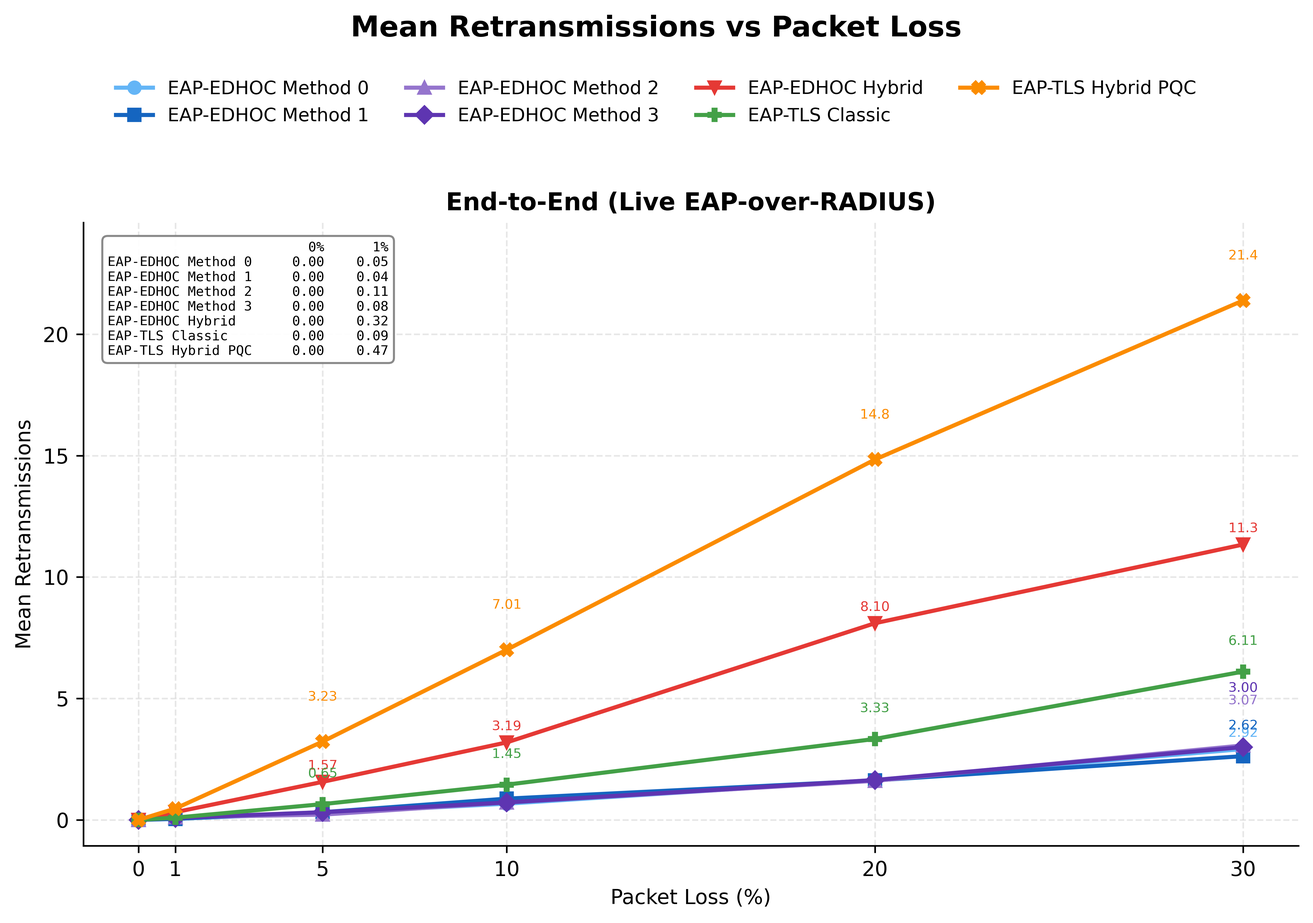
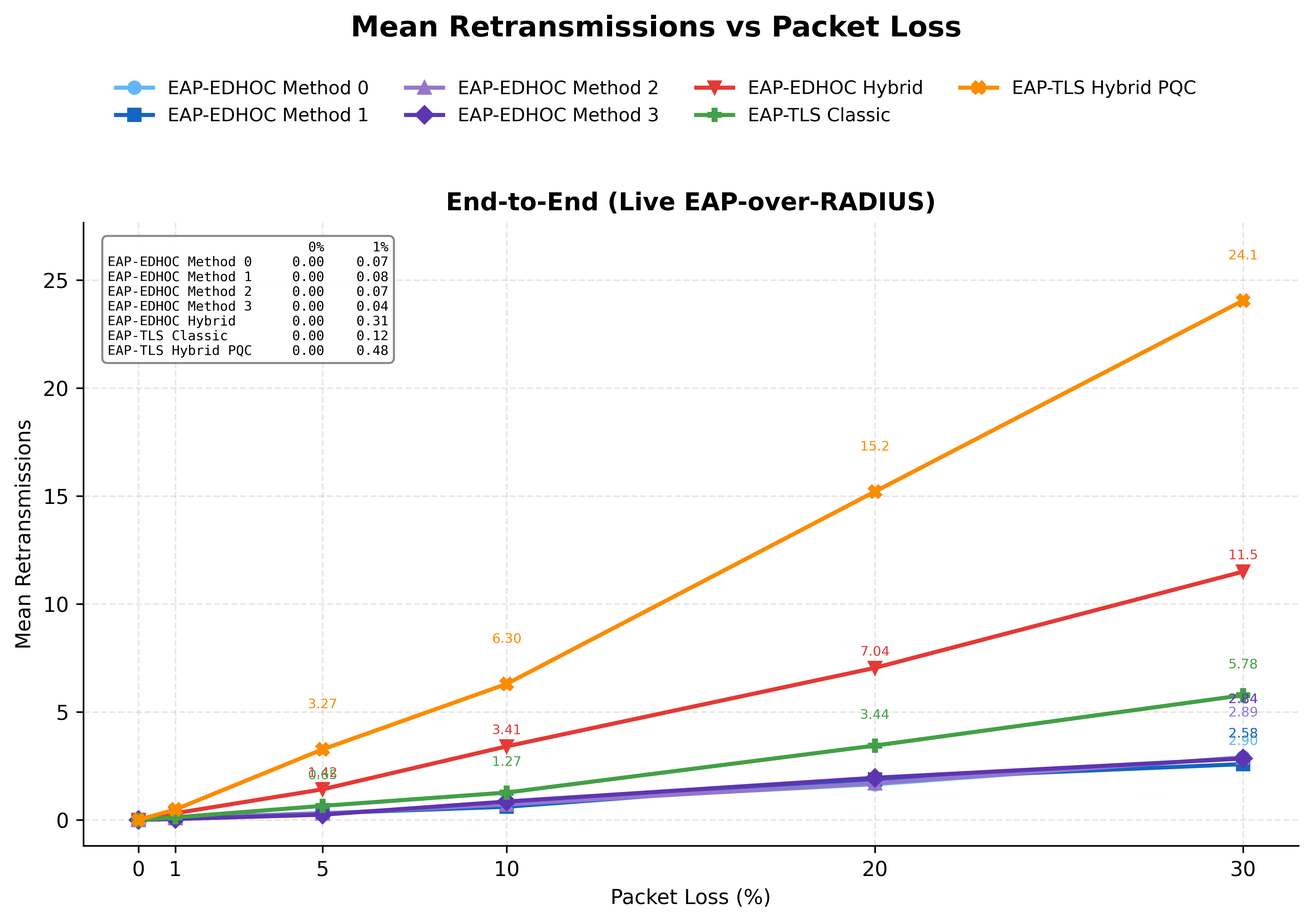
paper/notebook: storage-optimised results
Two-slot records: the proposal now takes 5.570 ms (median 5.704) and is
faster than EAP-TLS Hybrid PQC (9.319 ms) at every RTT and loss level;
durable storage costs one fdatasync per handshake on the DN-AAA, about
0.1 ms against tmpfs (was 7.9 ms). New design sentence in the protocol
section, recomputed RTT table, loss figures and Wilson/model check from
the new run, grace-key re-test (2 uses in 150 handshakes at 20% loss).
EDHOC_HANDSHAKE_MEAN_MS in the notebook was stuck at 14.733 since step 3
and is now refreshed (figure D).

diff --git a/symmetry-rev/paper/manuscript.tex b/symmetry-rev/paper/manuscript.tex
@@ -91,7 +91,7 @@ $^{4}$ \quad Department of Electrical Engineering, Udayana University, Badung, B
 \corres{Correspondence: isyou@kookmin.ac.kr}
 
 % Abstract (single paragraph, about 200 words, no blank lines)
-\abstract{5G secondary authentication lets an external data network (DN) authenticate user equipment (UE) through the Extensible Authentication Protocol (EAP), but existing methods such as EAP-TLS are heavyweight and rely on elliptic-curve cryptography that a quantum adversary can break. Moving to post-quantum key encapsulation also breaks the role symmetry of authenticated key exchange, because a key encapsulation mechanism (KEM) implicitly authenticates only the decapsulating party. We propose a role-symmetric hybrid post-quantum EAP-EDHOC (Ephemeral Diffie--Hellman Over COSE) protocol that restores this symmetry: the UE and the DN authentication server each receive exactly one X-Wing (X25519 + ML-KEM-768) encapsulation to a one-time static key, each authenticate with a detached ML-DSA-44 signature, and each rotate and erase their key after every run. The mirrored rotation gives both parties forward secrecy and post-compromise security, and the independent signatures give Key-Compromise Impersonation (KCI) resistance in both directions. The exported Extended Master Session Key bootstraps application-layer keys for login-free server access. We model nine security requirements in ProVerif for seven methods, including a negative control without key erasure. An implementation on Open5GS, UERANSIM, and FreeRADIUS shows that the symmetry extends to the traffic: of the $12{,}228$-byte handshake, the UE sends $6{,}116$ bytes and the server $6{,}112$ bytes. The cost, in contrast, is asymmetric and lies in transport fragmentation and durable key storage rather than in cryptography.}
+\abstract{5G secondary authentication lets an external data network (DN) authenticate user equipment (UE) through the Extensible Authentication Protocol (EAP), but existing methods such as EAP-TLS are heavyweight and rely on elliptic-curve cryptography that a quantum adversary can break. Moving to post-quantum key encapsulation also breaks the role symmetry of authenticated key exchange, because a key encapsulation mechanism (KEM) implicitly authenticates only the decapsulating party. We propose a role-symmetric hybrid post-quantum EAP-EDHOC (Ephemeral Diffie--Hellman Over COSE) protocol that restores this symmetry: the UE and the DN authentication server each receive exactly one X-Wing (X25519 + ML-KEM-768) encapsulation to a one-time static key, each authenticate with a detached ML-DSA-44 signature, and each rotate and erase their key after every run. The mirrored rotation gives both parties forward secrecy and post-compromise security, and the independent signatures give Key-Compromise Impersonation (KCI) resistance in both directions. The exported Extended Master Session Key bootstraps application-layer keys for login-free server access. We model nine security requirements in ProVerif for seven methods, including a negative control without key erasure. An implementation on Open5GS, UERANSIM, and FreeRADIUS shows that the symmetry extends to the traffic: of the $12{,}228$-byte handshake, the UE sends $6{,}116$ bytes and the server $6{,}112$ bytes. The cost, in contrast, is asymmetric and lies in transport fragmentation rather than in cryptography.}
 
 % Keywords
 \keyword{symmetric mutual authentication; asymmetric cryptography; hybrid post-quantum cryptography; EDHOC; 5G secondary authentication; X-Wing KEM; ML-DSA; formal verification}
@@ -198,7 +198,7 @@ X-Wing is IND-CCA secure under standard assumptions and, by exploiting ML-KEM's 
 \subsection{Assumptions and Design Rationale}
 In a provisioning phase (Algorithm~\ref{alg:longterm-keygen}), the UE (Initiator) and the DN-AAA (Responder) each generate a long-term X-Wing key pair and a long-term ML-DSA-44 signing key, and each holds the peer's long-term X-Wing public key. The peer's verification key ($VK_R$, $VK_I$) is conveyed in \texttt{Plaintext2}/\texttt{Plaintext3} and bound to the transcript by the corresponding signature. EAP-EDHOC messages are carried over EAP~\cite{RFC3748} and RADIUS~\cite{RFC2865,RFC3579} between the pass-through authenticator (SMF/UPF) and the DN-AAA, following TS~33.501~\cite{TS33501}. The Dolev--Yao adversary~\cite{DolevYao1983} controls the network.
 
-The X-Wing static keys are \emph{one-time} keys. Each party generates its next key pair during a run, announces the public key in $\mathit{EAD}_3$ or $\mathit{EAD}_4$, and erases the old secret key once the run completes, so every static key pair serves exactly one session. The DN-AAA therefore keeps one record per UE, holding $(sk_{\mathsf{B}}, pk_{\mathsf{B}})$ for that UE together with $(pk_{\mathsf{A}}, VK_I)$. The DN-AAA selects this record from the EAP identity of the session, which reaches it in the RADIUS Access-Request before \texttt{Message1}, so no extra field is added to the EDHOC messages.
+The X-Wing static keys are \emph{one-time} keys. Each party generates its next key pair during a run, announces the public key in $\mathit{EAD}_3$ or $\mathit{EAD}_4$, and erases the old secret key once the run completes, so every static key pair serves exactly one session. The DN-AAA therefore keeps one record per UE, holding $(sk_{\mathsf{B}}, pk_{\mathsf{B}})$ for that UE together with $(pk_{\mathsf{A}}, VK_I)$. The DN-AAA selects this record from the EAP identity of the session, which reaches it in the RADIUS Access-Request before \texttt{Message1}, so no extra field is added to the EDHOC messages. Each party keeps its record in a preallocated two-slot file; a commit writes the inactive slot and issues a single \texttt{fdatasync}, so the previous slot serves as the grace key and is overwritten by the next commit. The DN-AAA commits before it sends \texttt{Message4} (write-ahead), so a crash cannot leave it behind the UE; the UE commits after EAP-Success and then zeroes its previous slot, since it needs the new key only from the next session on.
 
 The protocol follows the SIGMA (SIGn-and-MAc) design~\cite{Kra03}: X-Wing provides confidentiality and key agreement, while detached ML-DSA-44 signatures~\cite{FIPS204} are the sole source of entity authentication. Because the signing keys are independent of the X-Wing static keys, leaking a KEM static key does not enable impersonation; this closes the KCI gap of a MAC-only Method~4 variant~\cite{GM23,CDM24}. We choose ML-DSA-44 (NIST category~2) rather than ML-DSA-65 to limit fragmentation: its $1312$-byte key and $2420$-byte signature are markedly smaller, and its margin still exceeds that of the Ed25519 signatures of T0--T3. Being nominally below the category-3 strength of ML-KEM-768, this is a deliberate size/security trade-off.
 
@@ -549,7 +549,7 @@ Verify\_MLDSA44     & 0.059596 & 0.028310 & 0.001013 \\
 \centering
 \includegraphics[width=\linewidth]{img_handshake_computation_grouped.png}
 \end{adjustwidth}
-\caption{Per-method handshake computation cost (\textbf{left}) and end-to-end handshake time (\textbf{right}). In the right panel, ``Initiator'' is the UE's local processing (including storing its rotated key for the proposal) and ``Responder'' is the time the UE waits for replies, which includes the RADIUS round-trips, the DN-AAA's processing, and its key storage.\label{fig:handshake_computation_grouped}}
+\caption{Per-method handshake computation cost (\textbf{left}) and end-to-end handshake time (\textbf{right}). In the right panel, ``Initiator'' is the UE's local processing (for the proposal, its key commit after EAP-Success lies outside this time) and ``Responder'' is the time the UE waits for replies, which includes the RADIUS round-trips, the DN-AAA's processing, and its key storage.\label{fig:handshake_computation_grouped}}
 \end{figure}
 
 \begin{figure}[H]
@@ -561,11 +561,11 @@ Verify\_MLDSA44     & 0.059596 & 0.028310 & 0.001013 \\
 \end{figure}
 
 \subsection{End-to-End Latency, Message Size, and Framing}
-Over the live EAP-over-RADIUS path ($100$ iterations per method, no loss), the proposed method completes in $13.223$~ms on average (median $11.946$~ms), against $0.945$--$1.401$~ms for methods 0--3 (medians $0.840$--$0.911$~ms; a few outliers of up to $11$~ms raise their means, and a pooled run of $10{,}000$ handshakes per method in two opposite orders on the same idle machine gives medians of $1.021$--$1.039$~ms, which we consider the more reliable estimate), $2.699$~ms for EAP-TLS Classic, and $9.696$~ms for EAP-TLS Hybrid PQC. Two costs drive the gap, and neither is computation. The first is fragmentation: the proposal needs $14$ RADIUS round-trips versus $3$ for methods 0--3, and EAP-TLS Classic and Hybrid PQC need $6$ and $28$. The second is durable key rotation: after every run both parties store their rotated one-time keys (write to a temporary file, \texttt{fsync}, atomic rename), and the DN-AAA overwrites and flushes the keys it erases. Tracing $20$ handshakes with \texttt{strace} gives two \texttt{fsync} calls per handshake on the UE and two \texttt{fsync} plus two \texttt{fdatasync} calls on the DN-AAA, where the new record is flushed before \texttt{Message4} is sent (write-ahead). To measure this cost rather than estimate it, we repeated the run with the key directories of both parties on a RAM-backed \texttt{tmpfs}, where the same calls are issued but return almost immediately: the handshake then takes $5.314$~ms on average (median $5.207$~ms, p95 $6.545$~ms) instead of $13.223$~ms (median $11.946$~ms, p95 $24.042$~ms). Durable storage therefore accounts for $7.9$~ms of the mean ($6.7$~ms of the median) on the virtual disk of our VM; storage with a power-loss-protected write cache completes a flush much faster than our virtual disk, so this share is specific to the testbed.
+Over the live EAP-over-RADIUS path ($100$ iterations per method, no loss), the proposed method completes in $5.570$~ms on average (median $5.704$~ms), against $0.981$--$1.158$~ms for methods 0--3 (medians $0.953$--$1.099$~ms; a pooled run of $10{,}000$ handshakes per method in two opposite orders on the same idle machine gives medians of $1.021$--$1.039$~ms, which we consider the more reliable estimate), $3.147$~ms for EAP-TLS Classic, and $9.319$~ms for EAP-TLS Hybrid PQC. Each method was preceded by $20$ discarded warm-up handshakes. Two costs separate the proposal from methods 0--3, and neither is computation. The first is fragmentation: the proposal needs $14$ RADIUS round-trips versus $3$ for methods 0--3, and EAP-TLS Classic and Hybrid PQC need $6$ and $28$. The second is durable key rotation. With the two-slot records, tracing $20$ handshakes with \texttt{strace} gives one \texttt{fdatasync} per handshake on the DN-AAA, issued before \texttt{Message4} ($153$~\textmu s on average), and one on the UE after EAP-Success ($50$~\textmu s), which lies outside the measured handshake time; the UE's whole commit takes $0.573$~ms. Our first implementation stored each key in its own file (write, \texttt{fsync}, atomic rename) and erased old keys with separate flushes, four \texttt{fsync} and two \texttt{fdatasync} calls per handshake, which added $7.9$~ms on the virtual disk of our VM ($13.223$~ms against $5.314$~ms with the key directories on a RAM-backed \texttt{tmpfs}). With the two-slot records the same comparison gives medians of $5.704$ and $5.614$~ms, so the remaining storage cost is about $0.1$~ms, within the run-to-run variation of our testbed (the \texttt{tmpfs} run had outliers, so we compare medians). Storage with a power-loss-protected write cache completes a flush faster than our virtual disk, so this share is specific to the testbed.
 
 The message sizes explain this. Classical messages fit in one EAP fragment ($34$--$147$~bytes). In the proposed method, each X-Wing element adds $1.1$--$1.2$~KB and each ML-DSA-44 signature about $2.4$~KB. \texttt{Message1} ($1{,}141$~B: $ct_B$ and the encrypted \texttt{Plaintext1}) now fits within the $1500$-byte MTU, whereas \texttt{Message2} ($4{,}880$~B) and \texttt{Message3} ($4{,}975$~B) exceed it and are split into EAP fragments (RFC~3579, 253-byte attributes)~\cite{RFC3579} and IP fragments; \texttt{Message4} ($1{,}232$~B) fits in one. The handshake totals $12{,}228$~B. The load per direction is balanced: the UE sends $6{,}116$~B (\texttt{Message1}+\texttt{Message3}) and the DN-AAA $6{,}112$~B (\texttt{Message2}+\texttt{Message4}). EAP-TLS Classic totals $2{,}478$~B in $5$ EAP fragments and EAP-TLS Hybrid PQC $25{,}195$~B in $27$, the most of any method. Cross-implementation checks against pyca/cryptography over OpenSSL passed all $11$ tests, with sizes matching the standards (ML-KEM-768 public key $1184$~B, ciphertext $1088$~B; ML-DSA-44 key $1312$~B, signature $2420$~B).
 
-Because all components share one VM, the round-trip time (RTT) between the SMF and the DN-AAA is close to zero, which understates the cost of fragmentation. Table~\ref{tab:rtt-projection} projects the measured loss-free means to a non-zero RTT with $T(\mathrm{RTT}) \approx T_{\mathrm{loopback}} + n_{\mathrm{RT}}\cdot \mathrm{RTT}$, where $n_{\mathrm{RT}}$ is the measured number of RADIUS round-trips. The fixed storage cost of the proposal is then quickly outweighed: the proposal overtakes EAP-TLS Hybrid PQC from an RTT of about $0.25$~ms, and at $10$~ms it is $1.9\times$ faster ($153$ vs.\ $290$~ms).
+Because all components share one VM, the round-trip time (RTT) between the SMF and the DN-AAA is close to zero, which understates the cost of fragmentation. Table~\ref{tab:rtt-projection} projects the measured loss-free means to a non-zero RTT with $T(\mathrm{RTT}) \approx T_{\mathrm{loopback}} + n_{\mathrm{RT}}\cdot \mathrm{RTT}$, where $n_{\mathrm{RT}}$ is the measured number of RADIUS round-trips. Since the proposal is already faster than EAP-TLS Hybrid PQC on loopback and needs half its round-trips, it is faster at every RTT, and the gap grows with the RTT: $1.7\times$ at $0$~ms and $2.0\times$ at $10$~ms ($146$ vs.\ $289$~ms).
 
 \begin{table}[H]
 \caption{Loss-free handshake time projected to a non-zero SMF--DN-AAA round-trip time, $T_{\mathrm{loopback}} + n_{\mathrm{RT}}\cdot\mathrm{RTT}$ (ms), from the measured means and round-trip counts. For Methods 0--3, $T_{\mathrm{loopback}}$ is the median of the pooled $10{,}000$-handshake runs.\label{tab:rtt-projection}}
@@ -575,17 +575,17 @@ Because all components share one VM, the round-trip time (RTT) between the SMF a
 \textbf{Method} & $\boldsymbol{n_{\mathrm{RT}}}$ & \textbf{0~ms} & \textbf{1~ms} & \textbf{5~ms} & \textbf{10~ms} & \textbf{20~ms} \\
 \midrule
 EAP-EDHOC Methods 0--3 (median) & 3  & 1.0 & 4.0 & 16.0 & 31.0 & 61.0 \\
-EAP-TLS Classic                 & 6  & 2.7 & 8.7 & 32.7 & 62.7 & 122.7 \\
-Proposal (durable key storage)  & 14 & 13.2 & 27.2 & 83.2 & 153.2 & 293.2 \\
-EAP-TLS Hybrid PQC              & 28 & 9.7 & 37.7 & 149.7 & 289.7 & 569.7 \\
+EAP-TLS Classic                 & 6  & 3.1 & 9.1 & 33.1 & 63.1 & 123.1 \\
+Proposal (durable key storage)  & 14 & 5.6 & 19.6 & 75.6 & 145.6 & 285.6 \\
+EAP-TLS Hybrid PQC              & 28 & 9.3 & 37.3 & 149.3 & 289.3 & 569.3 \\
 \bottomrule
 \end{tabular*}
 \end{table}
 
-The two panels of Figure~\ref{fig:handshake_computation_grouped} rank the methods differently, so we compare each EAP-EDHOC variant with the EAP-TLS baseline at the same security level. \emph{Classical pair} (Methods 0--3 vs.\ EAP-TLS Classic, both Ed25519 and X25519): the computation is equal ($0.152$--$0.182$~ms vs.\ $0.182$~ms; we used an Ed25519 certificate instead of RSA-2048 to isolate this effect), yet EAP-EDHOC sends $8$--$13\times$ fewer bytes ($184$--$296$~B vs.\ $2{,}478$~B), needs half the round-trips ($3$ vs.\ $6$), and is $2.9$--$3.2\times$ faster end to end in the median ($0.840$--$0.911$~ms vs.\ $2.651$~ms). \emph{Hybrid PQC pair} (the proposal vs.\ EAP-TLS Hybrid PQC, both X25519+ML-KEM-768 and ML-DSA-44): the proposal computes more ($0.985$ vs.\ $0.775$~ms) because it runs more X25519 and ML-KEM-768 operations, but EAP-TLS carries ML-DSA-44 inside an X.509 chain in a TLS record whereas EAP-EDHOC carries a compact detached CBOR/COSE value, so the proposal again sends half the bytes and needs half the round-trips ($12{,}228$~B and $14$ vs.\ $25{,}195$~B and $28$). Without loss it is nevertheless slower ($13.223$ vs.\ $9.696$~ms mean, $11.946$ vs.\ $9.630$~ms median), because EAP-TLS stores no key material per run; with the key directories on \texttt{tmpfs} it takes $5.314$~ms (median $5.207$~ms), faster than EAP-TLS Hybrid PQC. \texttt{tmpfs} is not crash-safe and the protocol's forward secrecy relies on durable rotation, so this figure is a lower bound on the storage cost, not a deployment configuration; Table~\ref{tab:rtt-projection} shows that the proposal is faster anyway once the network RTT exceeds about $0.25$~ms. Across both pairs, EDHOC's compact encoding, not its primitives, keeps its transport cost below EAP-TLS; for the proposal, forward secrecy without an ephemeral key is paid for in storage flushes instead.
+The two panels of Figure~\ref{fig:handshake_computation_grouped} rank the methods differently, so we compare each EAP-EDHOC variant with the EAP-TLS baseline at the same security level. \emph{Classical pair} (Methods 0--3 vs.\ EAP-TLS Classic, both Ed25519 and X25519): the computation is equal ($0.152$--$0.182$~ms vs.\ $0.182$~ms; we used an Ed25519 certificate instead of RSA-2048 to isolate this effect), yet EAP-EDHOC sends $8$--$13\times$ fewer bytes ($184$--$296$~B vs.\ $2{,}478$~B), needs half the round-trips ($3$ vs.\ $6$), and is $2.8$--$3.3\times$ faster end to end in the median ($0.953$--$1.099$~ms vs.\ $3.132$~ms). \emph{Hybrid PQC pair} (the proposal vs.\ EAP-TLS Hybrid PQC, both X25519+ML-KEM-768 and ML-DSA-44): the proposal computes more ($0.985$ vs.\ $0.775$~ms) because it runs more X25519 and ML-KEM-768 operations, but EAP-TLS carries ML-DSA-44 inside an X.509 chain in a TLS record whereas EAP-EDHOC carries a compact detached CBOR/COSE value, so the proposal again sends half the bytes and needs half the round-trips ($12{,}228$~B and $14$ vs.\ $25{,}195$~B and $28$). It is also faster end to end even on loopback ($5.570$ vs.\ $9.319$~ms mean, $5.704$ vs.\ $9.306$~ms median), although it stores its rotated keys durably in every run and EAP-TLS stores none: one \texttt{fdatasync} per handshake on the DN-AAA costs far less than the $14$ round-trips it saves. The \texttt{tmpfs} figure is only a reference point, since \texttt{tmpfs} is not crash-safe and the protocol's forward secrecy relies on durable rotation. Across both pairs, EDHOC's compact encoding, not its primitives, keeps its transport cost below EAP-TLS.
 
 \subsection{Behaviour under Packet Loss}
-Figures~\ref{fig:loss_mean} and~\ref{fig:loss_tail} report behaviour under emulated application-level loss with EAP-style retransmission (RTO 40~ms, up to 6 retransmissions per exchange, $120$ trials per cell) for all seven methods. Methods 0--3 keep a $100\%$ success rate up to $10\%$ loss, reach $99.2$--$100\%$ at $20\%$ and $95.8$--$98.3\%$ at $30\%$. EAP-TLS Classic reaches $100\%$ at $20\%$ loss and $96.7\%$ at $30\%$, and EAP-TLS Hybrid PQC $96.7\%$ and $77.5\%$. The proposal reaches $98.3\%$ at $20\%$ loss (mean $390.3$~ms, $8.1$ retransmissions) and $86.7\%$ at $30\%$ (mean $598.2$~ms, $11.3$ retransmissions), between the two EAP-TLS baselines, in line with its $14$ EAP fragments against their $5$ and $27$. With $120$ trials per cell the success rates carry Wilson $95\%$ intervals of about $\pm6$ points (e.g., $[79.4, 91.6]\%$ for the proposal and $[69.2, 84.1]\%$ for EAP-TLS Hybrid PQC at $30\%$ loss), so we read the ordering together with a simple model: if one round-trip succeeds with probability $p=(1-L)^2$ and an exchange fails after $7$ attempts, a handshake with $n_{\mathrm{RT}}$ round-trips succeeds with probability $(1-(1-p)^7)^{n_{\mathrm{RT}}}$. At $30\%$ loss this predicts $88.1\%$ for the proposal and $77.7\%$ for EAP-TLS Hybrid PQC, matching the measured $86.7\%$ and $77.5\%$, and about $14.6$ and $29.1$ retransmissions per successful handshake (measured: $13.1$ and $27.6$ among successful handshakes) at $40$~ms each ($\approx583$ and $1{,}166$~ms against the measured $598$ and $1{,}207$~ms). The loss behaviour is therefore governed by the number of round-trips. Within each security level EAP-EDHOC is the more loss-tolerant: at $30\%$ loss, Methods 0--3 average $116$--$136$~ms against $281$~ms for EAP-TLS Classic, and the proposal $598$~ms with $86.7\%$ success against $1{,}207$~ms and $77.5\%$ for EAP-TLS Hybrid PQC. From $1\%$ loss on, the retransmissions saved by having half the fragments outweigh the fixed storage cost, and the proposal is faster than EAP-TLS Hybrid PQC ($31.9$ vs.\ $34.5$~ms at $1\%$, $88.5$ vs.\ $162.3$~ms at $5\%$). A lost \texttt{Message4} is recovered through the DN-AAA's grace key: in a separate run of $150$ handshakes at $20\%$ loss, one session completed with the retained old key, and all subsequent handshakes succeeded without re-provisioning. Each extra fragment is an independent chance of loss, so latency and retransmissions grow with fragment count. Fragmentation, not computation, is the main scalability concern.
+Figures~\ref{fig:loss_mean} and~\ref{fig:loss_tail} report behaviour under emulated application-level loss with EAP-style retransmission (RTO 40~ms, up to 6 retransmissions per exchange, $120$ trials per cell) for all seven methods. Methods 0--3 keep a $100\%$ success rate up to $10\%$ loss, reach $99.2$--$100\%$ at $20\%$ and $95.8$--$99.2\%$ at $30\%$. EAP-TLS Classic reaches $99.2\%$ at both $20\%$ and $30\%$ loss, and EAP-TLS Hybrid PQC $97.5\%$ and $85.0\%$. The proposal reaches $99.2\%$ at $20\%$ loss (mean $307.1$~ms, $7.0$ retransmissions) and $88.3\%$ at $30\%$ (mean $575.3$~ms, $11.5$ retransmissions averaged over all trials), between the two EAP-TLS baselines at $30\%$, in line with its $14$ EAP fragments against their $5$ and $27$. With $120$ trials per cell the success rates carry Wilson $95\%$ intervals of about $\pm6$ points (e.g., $[81.4, 92.9]\%$ for the proposal and $[77.5, 90.3]\%$ for EAP-TLS Hybrid PQC at $30\%$ loss), so the two success rates are not distinguishable, and we read them together with a simple model: if one round-trip succeeds with probability $p=(1-L)^2$ and an exchange fails after $7$ attempts, a handshake with $n_{\mathrm{RT}}$ round-trips succeeds with probability $(1-(1-p)^7)^{n_{\mathrm{RT}}}$. At $30\%$ loss this predicts $88.1\%$ for the proposal and $77.7\%$ for EAP-TLS Hybrid PQC, against the measured $88.3\%$ and $85.0\%$ (the latter within, but near the edge of, its interval), and about $14.6$ and $29.1$ retransmissions per successful handshake (measured: $13.0$ and $28.3$ among successful handshakes) at $40$~ms each ($\approx583$ and $1{,}166$~ms against the measured $575$ and $1{,}326$~ms). The loss behaviour is therefore governed by the number of round-trips, and the clearest difference is latency rather than success rate. Within each security level EAP-EDHOC is the more loss-tolerant: at $30\%$ loss, Methods 0--3 average $118$--$132$~ms against $265$~ms for EAP-TLS Classic, and the proposal $575$~ms against $1{,}326$~ms for EAP-TLS Hybrid PQC. The proposal is faster than EAP-TLS Hybrid PQC at every loss level, and the gap widens with loss ($22.4$ vs.\ $35.0$~ms at $1\%$, $72.6$ vs.\ $152.4$~ms at $5\%$). A lost \texttt{Message4} is recovered through the DN-AAA's grace key: in a separate run of $150$ handshakes at $20\%$ loss, two sessions completed with the retained old key (a lost \texttt{Message4} or EAP-Success leaves the UE on its old key), and all $30$ subsequent handshakes succeeded without re-provisioning. Each extra fragment is an independent chance of loss, so latency and retransmissions grow with fragment count. Fragmentation, not computation, is the main scalability concern.
 
 \begin{figure}[H]
 \begin{adjustwidth}{-\extralength}{0cm}
@@ -609,7 +609,7 @@ Figures~\ref{fig:loss_mean} and~\ref{fig:loss_tail} report behaviour under emula
 
 \subsection{EMSK Key-Bootstrapping Cost}
 \label{sec:perf-bootstrap}
-Every primitive in the bootstrapping chain is inexpensive (Figure~\ref{fig:bootstrap_cost}a), ranging from $0.0012$~ms (OSCORE Master Salt derivation) to $0.0076$~ms (OSCORE Protect, AES-CCM). Of the loss-free end-to-end bootstrap latency of $0.4183$~ms (Figure~\ref{fig:bootstrap_cost}b), only $0.0337$~ms is spent on the four derivation steps (USRK+DSRK on the UE and AAA sides, OSCORE context on the UE and AS sides); the remaining $0.3846$~ms is network overhead on the two new legs, AAA$\to$AS (DSRK transport) and UE$\to$AS (first OSCORE contact). The single-core throughput bound (Figure~\ref{fig:bootstrap_scale}a) is $194{,}481$ sessions/s ($5.142$~\textmu s/session) on the AAA side and $106{,}182$ sessions/s ($9.418$~\textmu s/session) on the AS side, so bootstrapping does not shift the bottleneck away from the AAA server. At $0.42$~ms ($3.2\%$ of the handshake), bootstrapping is far cheaper than the handshake ($13.223$~ms) and far below the $2$--$10$~s typically reported for a manual OAuth~2.0 authorization-code login, at least $4{,}700\times$ faster than the $2$~s lower bound (Figure~\ref{fig:bootstrap_scale}b).
+Every primitive in the bootstrapping chain is inexpensive (Figure~\ref{fig:bootstrap_cost}a), ranging from $0.0012$~ms (OSCORE Master Salt derivation) to $0.0076$~ms (OSCORE Protect, AES-CCM). Of the loss-free end-to-end bootstrap latency of $0.4183$~ms (Figure~\ref{fig:bootstrap_cost}b), only $0.0337$~ms is spent on the four derivation steps (USRK+DSRK on the UE and AAA sides, OSCORE context on the UE and AS sides); the remaining $0.3846$~ms is network overhead on the two new legs, AAA$\to$AS (DSRK transport) and UE$\to$AS (first OSCORE contact). The single-core throughput bound (Figure~\ref{fig:bootstrap_scale}a) is $194{,}481$ sessions/s ($5.142$~\textmu s/session) on the AAA side and $106{,}182$ sessions/s ($9.418$~\textmu s/session) on the AS side, so bootstrapping does not shift the bottleneck away from the AAA server. At $0.42$~ms ($7.5\%$ of the handshake), bootstrapping is far cheaper than the handshake ($5.570$~ms) and far below the $2$--$10$~s typically reported for a manual OAuth~2.0 authorization-code login, at least $4{,}700\times$ faster than the $2$~s lower bound (Figure~\ref{fig:bootstrap_scale}b).
 
 \begin{figure}[H]
 \centering
@@ -633,7 +633,7 @@ Two implementation notes apply. The label \texttt{"dsrk@ietf.org"} is the reserv
 \section{Discussion}
 \label{sec:discussion}
 
-\textbf{Symmetric guarantees, asymmetric costs.} The results show two distinct symmetry structures. In the \emph{security} dimension the protocol is role-symmetric: both parties are authenticated by independent signatures, both are KCI-resistant, both rotate and erase their one-time keys, and both the computation ($0.492$~ms per party) and the traffic per direction ($6{,}116$ vs.\ $6{,}112$~B) are balanced. In the \emph{cost} dimension it is strongly asymmetric: computation ($0.985$~ms) is under $8\%$ of the $13.223$~ms handshake, and the rest is split between fragmentation over $14$ RADIUS round-trips and the durable storage of the rotated keys ($7.9$~ms on our VM, measured against \texttt{tmpfs}). This decomposition is actionable. Faster PQC primitives would barely change end-to-end latency, whereas the transport cost can be cut today by raising the EAP fragment size or the RADIUS/MTU budget on the SMF--DN-AAA path, and the storage cost by flush-efficient storage or by keeping each key record in a single file, without touching the verified cryptography.
+\textbf{Symmetric guarantees, asymmetric costs.} The results show two distinct symmetry structures. In the \emph{security} dimension the protocol is role-symmetric: both parties are authenticated by independent signatures, both are KCI-resistant, both rotate and erase their one-time keys, and both the computation ($0.492$~ms per party) and the traffic per direction ($6{,}116$ vs.\ $6{,}112$~B) are balanced. In the \emph{cost} dimension it is strongly asymmetric: computation ($0.985$~ms) is under $18\%$ of the $5.570$~ms handshake, and most of the rest is fragmentation over $14$ RADIUS round-trips; with two-slot records, durable storage of the rotated keys costs one \texttt{fdatasync} per handshake on the DN-AAA, about $0.1$~ms on our VM. This decomposition is actionable. Faster PQC primitives would barely change end-to-end latency, whereas the transport cost can be cut today by raising the EAP fragment size or the RADIUS/MTU budget on the SMF--DN-AAA path, without touching the verified cryptography; the storage cost has already been reduced in this way, from $7.9$~ms to about $0.1$~ms, by keeping each key record in a single two-slot file.
 
 \textbf{Design choices against the closest prior art.} The KEM-based, signature-free method of Fraile et al.~\cite{fraile2025reinventing,pocero} would save the ML-DSA-44 sign/verify cost ($\approx0.223$~ms and $0.060$~ms), which is small against the end-to-end handshake time, while it is precisely the detached signature that gives formally verified KCI resistance independent of the KEM static key (R\ref{req:kci}). It would also break the explicit-authentication symmetry of Section~\ref{sec:symmetry}, since a KEM authenticates only the decapsulator. Shin et al.'s Hybrid-EDHOC~\cite{SIK+25} omits Message~4 to save payload, yet Message~4 is the smallest message ($1{,}232$~B, one EAP fragment; Figure~\ref{fig:communication_breakdown_methods}) and carries the Responder's half of the symmetric key rotation that yields post-compromise security (R\ref{req:pcs}). Omitting it would barely reduce fragmentation, since \texttt{Message2} and \texttt{Message3} dominate the $12{,}228$~B, but would lose a property that T0--T3 lack entirely.
 
@@ -646,7 +646,7 @@ Two implementation notes apply. The label \texttt{"dsrk@ietf.org"} is the reserv
 \label{sec:conclusion}
 We proposed and implemented a role-symmetric hybrid post-quantum EAP-EDHOC protocol for 5G secondary authentication. X-Wing (X25519 + ML-KEM-768) provides key agreement through exactly two opposite-direction encapsulations to one-time static keys, detached ML-DSA-44 signatures authenticate each party independently of its KEM key, and a two-sided rotation with key erasure provides both forward secrecy and post-compromise security without an ephemeral key pair. ProVerif verification across seven methods shows that only the proposal combines quantum resilience (R\ref{req:qr}), KCI resistance, forward secrecy, and post-compromise security; identity concealment (R\ref{req:idconceal}) holds except under compromise of the Responder's current one-time key before the run. The exported EMSK bootstraps OSCORE keys following RFC~5295 and RFC~8613, so the UE reaches an application server without further login.
 
-On Open5GS, UERANSIM, and FreeRADIUS, the handshake exchanges $12{,}228$~B, split evenly between the two directions, and completes in $13.223$~ms on average, of which $7.9$~ms is durable key storage on our VM. Its cost is asymmetric, concentrated in fragmentation and durable key storage rather than computation; fragmentation dominates under high packet loss. Future work will reduce this overhead through compact PQC parameter sets, EAP fragment-size and MTU tuning, evaluation under mobility and handover with EMSK re-bootstrapping, a computational security proof, and IANA registration of the OSCORE-bootstrap label. Quantum-resistant secondary authentication is thus deployable on existing 5G infrastructure, with security that is symmetric between the parties and a cost that lies in transport and key storage rather than cryptography.
+On Open5GS, UERANSIM, and FreeRADIUS, the handshake exchanges $12{,}228$~B, split evenly between the two directions, and completes in $5.570$~ms on average, faster than EAP-TLS Hybrid PQC ($9.319$~ms), including the durable storage of the rotated keys (one \texttt{fdatasync} per handshake on the DN-AAA). Its cost is asymmetric, concentrated in fragmentation rather than computation; fragmentation dominates under high packet loss. Future work will reduce this overhead through compact PQC parameter sets, EAP fragment-size and MTU tuning, evaluation under mobility and handover with EMSK re-bootstrapping, a computational security proof, and IANA registration of the OSCORE-bootstrap label. Quantum-resistant secondary authentication is thus deployable on existing 5G infrastructure, with security that is symmetric between the parties and a cost that lies in transport rather than cryptography.
 
 \vspace{6pt}
 

diff --git a/symmetry-rev/revisi-no-eph-step6.md b/symmetry-rev/revisi-no-eph-step6.md
@@ -1,0 +1,98 @@
+# revisi-no-eph-step6.md — Optimasi penyimpanan kunci (branch `symmetry-no-eph`)
+
+**Tujuan:** memangkas biaya penyimpanan kunci 7,9 ms tanpa mengurangi keamanan (forward secrecy tetap berbasis rotasi + penghapusan) dan tanpa mengubah protokol, pesan, atau model ProVerif.
+
+## 0. Kondisi sekarang (commit `6e9efa32`)
+
+| Pihak | Yang terjadi per handshake | Di jalur waktu handshake? |
+|---|---|---|
+| UE (`e2e_radius_bench.c` `commit_creds`, UERANSIM) | tulis `ue.creds` dan `server.pub`, masing-masing tmp + `fsync` + rename → **2 `fsync`** | **Ya**: dipanggil sebelum ACK terakhir |
+| DN-AAA (`edhoc4_db_commit`) | record aktif dipindah ke `prev/`, `server.creds` + `ue.pub` baru via tmp + `fsync` + rename → **2 `fsync`** | Ya (sebelum Message4, wajib) |
+| DN-AAA (`handle_one` di Message1) | `wipe_prev`: overwrite + **2 `fdatasync`** | **Ya**, di jalur Message1 |
+
+Hasil ukur: 13,223 ms (disk), 5,314 ms (tmpfs), jadi penyimpanan menambah 7,9 ms. Optimasi opsional dari step 3 belum diterapkan.
+
+## 1. Desain tercepat yang tetap aman: record dua-slot, satu flush
+
+Prinsip: per handshake cukup **satu** `fdatasync` di DN-AAA (wajib, write-ahead sebelum Message4) dan **nol** di jalur handshake UE.
+
+### 1.1 Format file record (DN-AAA dan UE sama)
+
+Satu file per record, ukuran tetap, dialokasikan sekali saat provisioning (`posix_fallocate`), berisi dua slot:
+
+```
+header (32 B): magic "E4R2", version=1, slot_size
+slot[0], slot[1] (masing-masing):
+    u64  seq            // naik setiap commit
+    u32  len
+    u8   payload[...]   // DN-AAA: edhoc4_creds(server) || pk_A
+                        // UE:     edhoc4_creds(ue)     || pk_B
+    u8   tag[32]        // HMAC-SHA256(k_rec, seq||len||payload) atau SHA-256
+```
+
+- DN-AAA: `edhoc_db/<identity>/rec.bin`. File `ue.vk` dan `id_cred` tetap terpisah karena tidak berotasi.
+- UE: `ue.rec`, menggantikan `ue.creds` dan `server.pub`.
+
+Aturan baca:
+- Muat kedua slot dan cek tag-nya.
+- **Aktif** = slot valid dengan `seq` tertinggi; **prev (grace key)** = slot valid lainnya.
+- Slot yang rusak (torn write) diabaikan, sehingga crash di tengah penulisan selalu menyisakan slot lama yang utuh.
+
+### 1.2 DN-AAA (`edhoc4_db.c`)
+
+- **Commit** (setelah Message3 valid, sebelum Message4):
+  1. Tulis state baru (Nsk_B, Npk_B, Npk_A) ke slot **non-aktif** dengan `seq = seq_aktif + 1` lewat `pwrite`.
+  2. **Satu `fdatasync(fd)`.** Tidak ada `rename`, `mkdir`, atau fsync direktori, karena file sudah dialokasikan dan ukurannya tidak berubah.
+  3. Slot lama otomatis menjadi prev (grace key). Slot "prev sebelumnya" tertimpa oleh tulisan ini, jadi penghapusannya terjadi di dalam flush yang sama.
+- **Message1, UE terbukti sudah berotasi** (dekripsi berhasil dengan slot aktif):
+  - Timpa slot prev dengan nol (`pwrite`) **tanpa `fdatasync`**.
+  - Data ini ikut ter-flush oleh `fdatasync` commit di akhir sesi yang sama, karena berada di file yang sama.
+  - Hasilnya: 2 `fdatasync` hilang dari jalur Message1.
+- **Message1 hanya berhasil dengan slot prev** (Message4 sebelumnya hilang):
+  - Salin isi prev ke slot non-prev dengan `seq` lebih tinggi, lalu `fdatasync`.
+  - Ini jalur langka, jadi biaya flush di sini tidak masalah.
+- `flock` tetap dipakai.
+- Hapus `prev/`, `server.creds`, dan `ue.pub` lama. Sediakan migrasi satu kali di `keygen`/`setup_no_eph.sh`.
+
+### 1.3 UE (`e2e_radius_bench.c`, UERANSIM `transport.cpp`)
+
+- Pindahkan `commit_creds()` / `edhoc4_commit` + simpan ke **setelah EAP-Success diterima**, bukan sebelum ACK terakhir.
+  - Aman: UE baru butuh kunci baru di sesi berikutnya.
+  - Jika UE crash sebelum commit, UE tetap memakai kunci lama, dan grace key (prev) di DN-AAA menerimanya.
+- UE juga memakai record dua-slot dengan **satu `fdatasync`**.
+- Di benchmark, catat `ue_commit_ms` terpisah sebagai kolom baru di CSV. **`duration_ms` berhenti saat EAP-Success diterima**, konsisten dengan EAP-TLS yang selesai di EAP-Success.
+
+### 1.4 Keamanan (tidak berubah)
+
+- Pesan, key schedule, dan model ProVerif tidak berubah, karena model mengabstraksi rotasi yang selesai.
+- Forward secrecy: kunci lama ditimpa di file yang sama dan ter-flush di commit berikutnya. Jeda tunda FS tetap "satu sesi", sama seperti kebijakan grace key yang sudah tertulis di paper.
+- Write-ahead DN-AAA tetap dipertahankan: record baru durable sebelum Message4 dikirim. Ini tidak boleh dihilangkan, karena tanpanya crash bisa menyebabkan desync permanen.
+- Catatan jujur untuk paper: overwrite di SSD/FTL tidak menjamin penghapusan fisik. Batasan ini sama dengan implementasi sekarang.
+
+## 2. Pengujian
+
+1. `edhoc4_dbtest` / `selftest`:
+   - 2 UE × 5 sesi;
+   - simulasi Message4 hilang (grace path);
+   - simulasi torn write (rusakkan tag slot terbaru → harus jatuh ke slot lama);
+   - pastikan slot prev berisi nol setelah sesi berikutnya.
+2. `strace -c -f -e trace=fsync,fdatasync`, 20 handshake. Target:
+   - DN-AAA **1 `fdatasync`** per handshake (sebelumnya 2 `fsync` + 2 `fdatasync`);
+   - UE 1 `fdatasync`, **di luar** `duration_ms`.
+3. Benchmark di mesin idle (`sudo ./setup_no_eph.sh` lalu `./run_e2e_benchmarks.sh`):
+   - method 0–6 durable;
+   - method 4 tmpfs, sebagai pembanding batas bawah.
+   - Simpan sebagai `e2e-handshake.csv` dan `e2e-handshake-tmpfs.csv`, plus lossy.
+4. Estimasi sebelum diukur (**jangan dikutip, ukur dulu**): sekitar 5,3 ms + 1 flush (~1,3 ms di VM) ≈ 6,5–7 ms, di bawah EAP-TLS Hybrid PQC (9,696 ms).
+
+## 3. Update paper dan notebook setelah diukur
+
+- §Performance "Two costs drive the gap": angka baru, jumlah flush (DN-AAA 1 `fdatasync`, write-ahead; UE di luar jalur), dan nilai durable vs tmpfs.
+- Kalimat perbandingan dengan EAP-TLS Hybrid PQC: jika durable < 9,696 ms, tulis bahwa proposal lebih cepat bahkan di loopback. Hitung ulang titik impas RTT: `(T_prop − T_tls) / (28 − 14)`. Jika hasilnya negatif, tulis "faster at every RTT".
+- Tabel RTT (`tab:rtt-projection`), Discussion, Conclusion, abstract (jika menyebut storage), notebook (`e2e_*`, `EDHOC_HANDSHAKE_MEAN_MS`), lalu regenerate PNG.
+- Tambahkan satu kalimat desain di §Handshake/Implementation: *"Each party keeps its record in a preallocated two-slot file; a commit writes the inactive slot and issues a single fdatasync, so the previous slot serves as the grace key and is overwritten by the next commit."*
+
+Commit:
+- `edhoc4: two-slot key record, one flush per commit; UE commit after EAP-Success`
+- `bench: e2e re-run with two-slot storage`
+- `paper/notebook: storage-optimised results`
